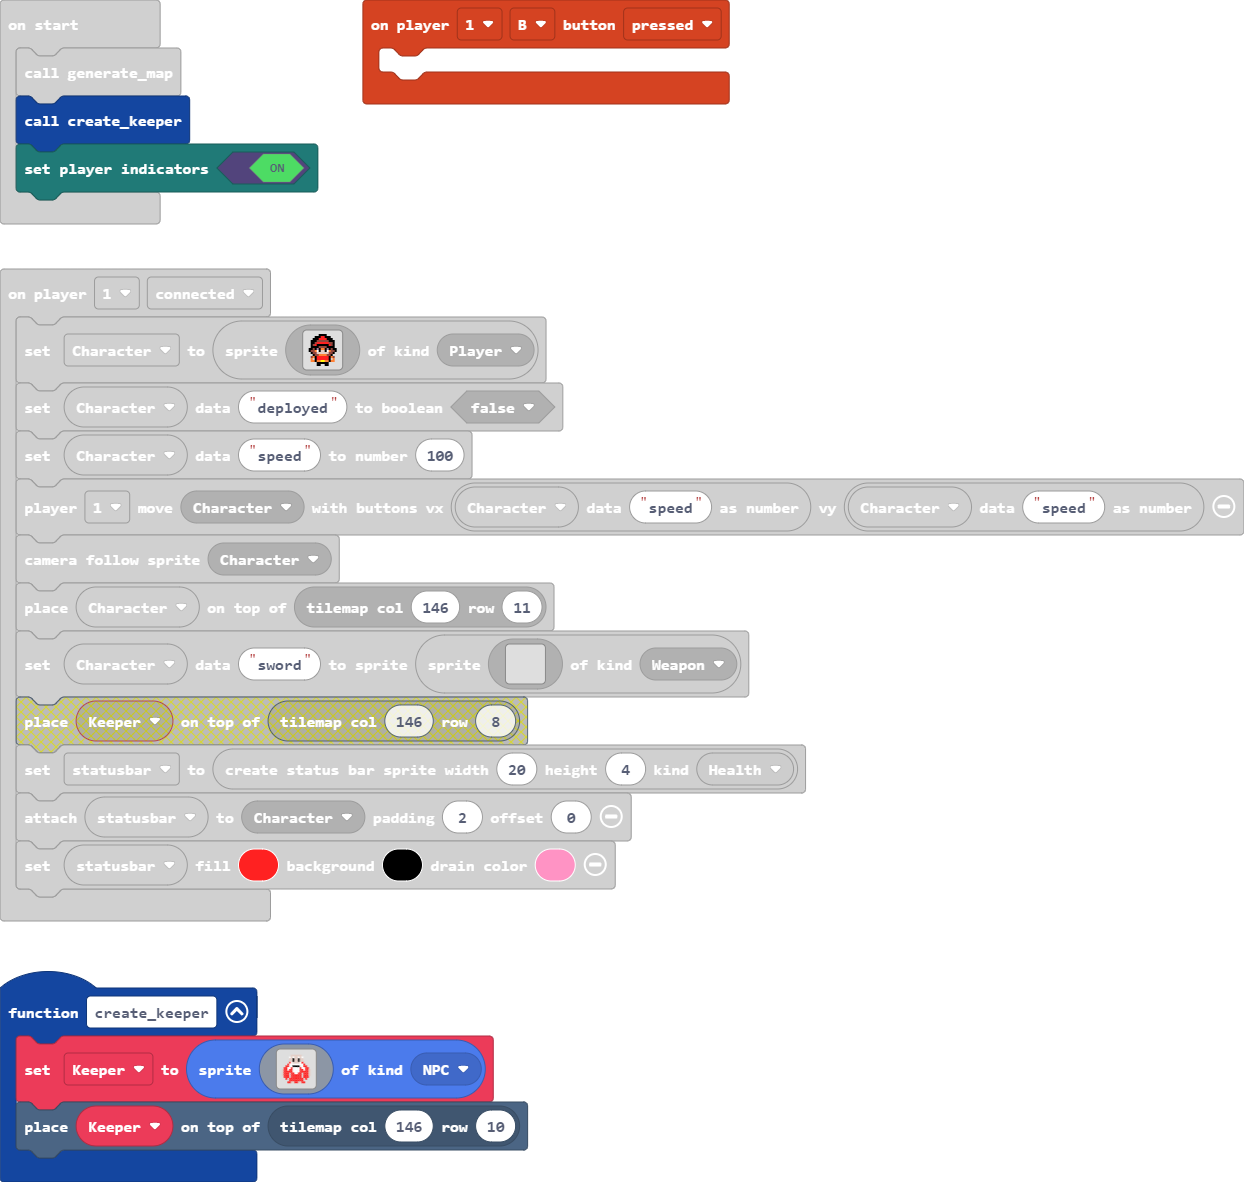
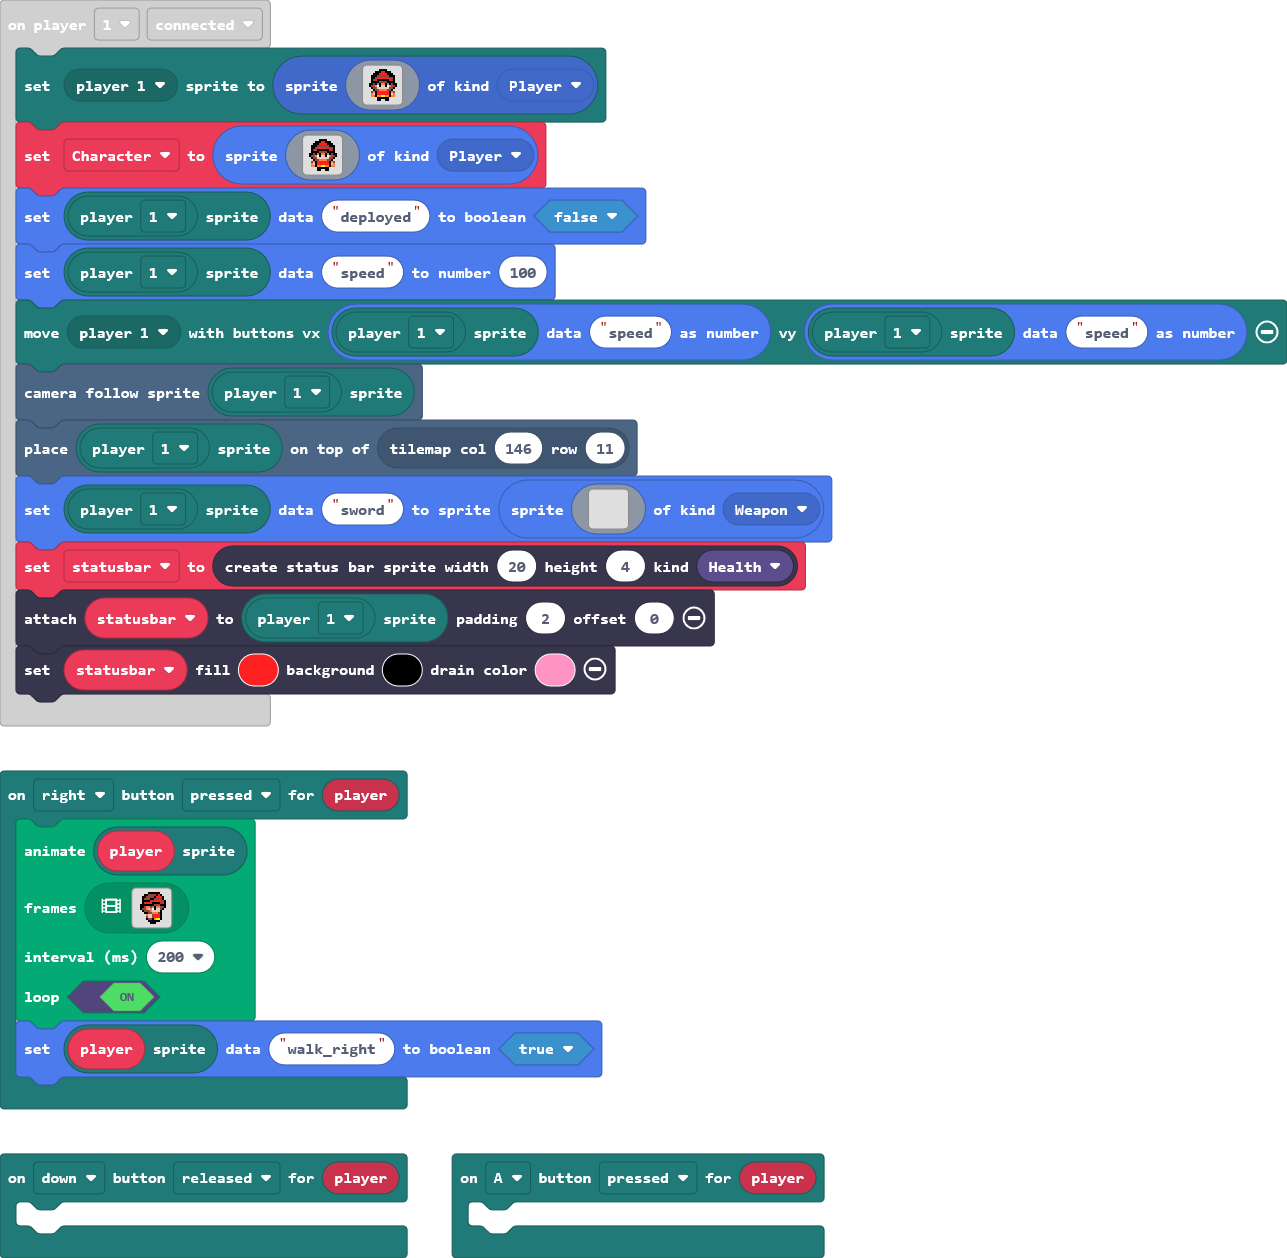
Update main.blocks, main.ts

diff --git a/main.ts b/main.ts
@@ -22,6 +22,83 @@ controller.player1.onButtonEvent(ControllerButton.Left, ControllerButtonEvent.Re
     sprites.setDataBoolean(Character, "walk_left", false)
     check_direction(sprites.readDataBoolean(Character, "walk_up"), sprites.readDataBoolean(Character, "walk_down"), sprites.readDataBoolean(Character, "walk_left"), sprites.readDataBoolean(Character, "walk_right"), Character)
 })
+mp.onButtonEvent(mp.MultiplayerButton.Right, ControllerButtonEvent.Pressed, function (player2) {
+    animation.runImageAnimation(
+    mp.getPlayerSprite(player2),
+    [img`
+        . . . . . . f f f f f f . . . . 
+        . . . . f f e e e e f 2 f . . . 
+        . . . f f e e e e f 2 2 2 f . . 
+        . . . f e e e f f e e e e f . . 
+        . . . f f f f e e 2 2 2 2 e f . 
+        . . . f e 2 2 2 f f f f e 2 f . 
+        . . f f f f f f f e e e f f f . 
+        . . f f e 4 4 e b f 4 4 e e f . 
+        . . f e e 4 d 4 1 f d d e f . . 
+        . . . f e e e 4 d d d d f . . . 
+        . . . . f f e e 4 4 4 e f . . . 
+        . . . . . 4 d d e 2 2 2 f . . . 
+        . . . . . e d d e 2 2 2 f . . . 
+        . . . . . f e e f 4 5 5 f . . . 
+        . . . . . . f f f f f f . . . . 
+        . . . . . . . f f f . . . . . . 
+        `,img`
+        . . . . . . . . . . . . . . . . 
+        . . . . . . f f f f f f . . . . 
+        . . . . f f e e e e f 2 f . . . 
+        . . . f f e e e e f 2 2 2 f . . 
+        . . . f e e e f f e e e e f . . 
+        . . . f f f f e e 2 2 2 2 e f . 
+        . . . f e 2 2 2 f f f f e 2 f . 
+        . . f f f f f f f e e e f f f . 
+        . . f f e 4 4 e b f 4 4 e e f . 
+        . . f e e 4 d 4 1 f d d e f . . 
+        . . . f e e e e e d d d f . . . 
+        . . . . . f 4 d d e 4 e f . . . 
+        . . . . . f e d d e 2 2 f . . . 
+        . . . . f f f e e f 5 5 f f . . 
+        . . . . f f f f f f f f f f . . 
+        . . . . . f f . . . f f f . . . 
+        `,img`
+        . . . . . . f f f f f f . . . . 
+        . . . . f f e e e e f 2 f . . . 
+        . . . f f e e e e f 2 2 2 f . . 
+        . . . f e e e f f e e e e f . . 
+        . . . f f f f e e 2 2 2 2 e f . 
+        . . . f e 2 2 2 f f f f e 2 f . 
+        . . f f f f f f f e e e f f f . 
+        . . f f e 4 4 e b f 4 4 e e f . 
+        . . f e e 4 d 4 1 f d d e f . . 
+        . . . f e e e 4 d d d d f . . . 
+        . . . . f f e e 4 4 4 e f . . . 
+        . . . . . 4 d d e 2 2 2 f . . . 
+        . . . . . e d d e 2 2 2 f . . . 
+        . . . . . f e e f 4 5 5 f . . . 
+        . . . . . . f f f f f f . . . . 
+        . . . . . . . f f f . . . . . . 
+        `,img`
+        . . . . . . . . . . . . . . . . 
+        . . . . . . f f f f f f . . . . 
+        . . . . f f e e e e f 2 f . . . 
+        . . . f f e e e e f 2 2 2 f . . 
+        . . . f e e e f f e e e e f . . 
+        . . . f f f f e e 2 2 2 2 e f . 
+        . . . f e 2 2 2 f f f f e 2 f . 
+        . . f f f f f f f e e e f f f . 
+        . . f f e 4 4 e b f 4 4 e e f . 
+        . . f e e 4 d 4 1 f d d e f . . 
+        . . . f e e e 4 d d d d f . . . 
+        . . . . 4 d d e 4 4 4 e f . . . 
+        . . . . e d d e 2 2 2 2 f . . . 
+        . . . . f e e f 4 4 5 5 f f . . 
+        . . . . f f f f f f f f f f . . 
+        . . . . . f f . . . f f f . . . 
+        `],
+    200,
+    true
+    )
+    sprites.setDataBoolean(mp.getPlayerSprite(player2), "walk_right", true)
+})
 function create_keeper () {
     Keeper = sprites.create(assets.image`The Keeper`, SpriteKind.NPC)
     tiles.placeOnTile(Keeper, tiles.getTileLocation(146, 10))
@@ -107,6 +184,9 @@ controller.player1.onButtonEvent(ControllerButton.Up, ControllerButtonEvent.Rele
     animation.stopAnimation(animation.AnimationTypes.All, Character)
     sprites.setDataBoolean(Character, "walk_up", false)
     check_direction(sprites.readDataBoolean(Character, "walk_up"), sprites.readDataBoolean(Character, "walk_down"), sprites.readDataBoolean(Character, "walk_left"), sprites.readDataBoolean(Character, "walk_right"), Character)
+})
+mp.onButtonEvent(mp.MultiplayerButton.A, ControllerButtonEvent.Pressed, function (player2) {
+	
 })
 function check_direction (up: boolean, down: boolean, left: boolean, right: boolean, user: Sprite) {
     if (up && left || up && right || up && (left && right)) {
@@ -569,81 +649,7 @@ controller.player1.onButtonEvent(ControllerButton.Down, ControllerButtonEvent.Re
     check_direction(sprites.readDataBoolean(Character, "walk_up"), sprites.readDataBoolean(Character, "walk_down"), sprites.readDataBoolean(Character, "walk_left"), sprites.readDataBoolean(Character, "walk_right"), Character)
 })
 controller.player1.onButtonEvent(ControllerButton.Right, ControllerButtonEvent.Pressed, function () {
-    animation.runImageAnimation(
-    Character,
-    [img`
-        . . . . . . f f f f f f . . . . 
-        . . . . f f e e e e f 2 f . . . 
-        . . . f f e e e e f 2 2 2 f . . 
-        . . . f e e e f f e e e e f . . 
-        . . . f f f f e e 2 2 2 2 e f . 
-        . . . f e 2 2 2 f f f f e 2 f . 
-        . . f f f f f f f e e e f f f . 
-        . . f f e 4 4 e b f 4 4 e e f . 
-        . . f e e 4 d 4 1 f d d e f . . 
-        . . . f e e e 4 d d d d f . . . 
-        . . . . f f e e 4 4 4 e f . . . 
-        . . . . . 4 d d e 2 2 2 f . . . 
-        . . . . . e d d e 2 2 2 f . . . 
-        . . . . . f e e f 4 5 5 f . . . 
-        . . . . . . f f f f f f . . . . 
-        . . . . . . . f f f . . . . . . 
-        `,img`
-        . . . . . . . . . . . . . . . . 
-        . . . . . . f f f f f f . . . . 
-        . . . . f f e e e e f 2 f . . . 
-        . . . f f e e e e f 2 2 2 f . . 
-        . . . f e e e f f e e e e f . . 
-        . . . f f f f e e 2 2 2 2 e f . 
-        . . . f e 2 2 2 f f f f e 2 f . 
-        . . f f f f f f f e e e f f f . 
-        . . f f e 4 4 e b f 4 4 e e f . 
-        . . f e e 4 d 4 1 f d d e f . . 
-        . . . f e e e e e d d d f . . . 
-        . . . . . f 4 d d e 4 e f . . . 
-        . . . . . f e d d e 2 2 f . . . 
-        . . . . f f f e e f 5 5 f f . . 
-        . . . . f f f f f f f f f f . . 
-        . . . . . f f . . . f f f . . . 
-        `,img`
-        . . . . . . f f f f f f . . . . 
-        . . . . f f e e e e f 2 f . . . 
-        . . . f f e e e e f 2 2 2 f . . 
-        . . . f e e e f f e e e e f . . 
-        . . . f f f f e e 2 2 2 2 e f . 
-        . . . f e 2 2 2 f f f f e 2 f . 
-        . . f f f f f f f e e e f f f . 
-        . . f f e 4 4 e b f 4 4 e e f . 
-        . . f e e 4 d 4 1 f d d e f . . 
-        . . . f e e e 4 d d d d f . . . 
-        . . . . f f e e 4 4 4 e f . . . 
-        . . . . . 4 d d e 2 2 2 f . . . 
-        . . . . . e d d e 2 2 2 f . . . 
-        . . . . . f e e f 4 5 5 f . . . 
-        . . . . . . f f f f f f . . . . 
-        . . . . . . . f f f . . . . . . 
-        `,img`
-        . . . . . . . . . . . . . . . . 
-        . . . . . . f f f f f f . . . . 
-        . . . . f f e e e e f 2 f . . . 
-        . . . f f e e e e f 2 2 2 f . . 
-        . . . f e e e f f e e e e f . . 
-        . . . f f f f e e 2 2 2 2 e f . 
-        . . . f e 2 2 2 f f f f e 2 f . 
-        . . f f f f f f f e e e f f f . 
-        . . f f e 4 4 e b f 4 4 e e f . 
-        . . f e e 4 d 4 1 f d d e f . . 
-        . . . f e e e 4 d d d d f . . . 
-        . . . . 4 d d e 4 4 4 e f . . . 
-        . . . . e d d e 2 2 2 2 f . . . 
-        . . . . f e e f 4 4 5 5 f f . . 
-        . . . . f f f f f f f f f f . . 
-        . . . . . f f . . . f f f . . . 
-        `],
-    200,
-    true
-    )
-    sprites.setDataBoolean(Character, "walk_right", true)
+	
 })
 controller.player1.onButtonEvent(ControllerButton.A, ControllerButtonEvent.Pressed, function () {
     if (!(sprites.readDataBoolean(Character, "attacking"))) {
@@ -673,6 +679,9 @@ controller.player1.onButtonEvent(ControllerButton.A, ControllerButtonEvent.Press
 scene.onHitTile(SpriteKind.Player, 15, function (sprite) {
     scene.placeOnRandomTile(sprite, 12)
     sprites.setDataBoolean(sprite, "deployed", true)
+})
+mp.onButtonEvent(mp.MultiplayerButton.Down, ControllerButtonEvent.Released, function (player2) {
+	
 })
 controller.player2.onEvent(ControllerEvent.Connected, function () {
     Character2 = sprites.create(img`
@@ -729,6 +738,24 @@ controller.player1.onButtonEvent(ControllerButton.Right, ControllerButtonEvent.R
     check_direction(sprites.readDataBoolean(Character, "walk_up"), sprites.readDataBoolean(Character, "walk_down"), sprites.readDataBoolean(Character, "walk_left"), sprites.readDataBoolean(Character, "walk_right"), Character)
 })
 controller.player1.onEvent(ControllerEvent.Connected, function () {
+    mp.setPlayerSprite(mp.playerSelector(mp.PlayerNumber.One), sprites.create(img`
+        . . . . . . f f f f . . . . . . 
+        . . . . f f f 2 2 f f f . . . . 
+        . . . f f f 2 2 2 2 f f f . . . 
+        . . f f f e e e e e e f f f . . 
+        . . f f e 2 2 2 2 2 2 e e f . . 
+        . . f e 2 f f f f f f 2 e f . . 
+        . . f f f f e e e e f f f f . . 
+        . f f e f b f 4 4 f b f e f f . 
+        . f e e 4 1 f d d f 1 4 e e f . 
+        . . f e e d d d d d d e e f . . 
+        . . . f e e 4 4 4 4 e e f . . . 
+        . . e 4 f 2 2 2 2 2 2 f 4 e . . 
+        . . 4 d f 2 2 2 2 2 2 f d 4 . . 
+        . . 4 4 f 4 4 5 5 4 4 f 4 4 . . 
+        . . . . . f f f f f f . . . . . 
+        . . . . . f f . . f f . . . . . 
+        `, SpriteKind.Player))
     Character = sprites.create(img`
         . . . . . . f f f f . . . . . . 
         . . . . f f f 2 2 f f f . . . . 
@@ -747,12 +774,12 @@ controller.player1.onEvent(ControllerEvent.Connected, function () {
         . . . . . f f f f f f . . . . . 
         . . . . . f f . . f f . . . . . 
         `, SpriteKind.Player)
-    sprites.setDataBoolean(Character, "deployed", false)
-    sprites.setDataNumber(Character, "speed", 100)
-    controller.player1.moveSprite(Character, sprites.readDataNumber(Character, "speed"), sprites.readDataNumber(Character, "speed"))
-    scene.cameraFollowSprite(Character)
-    tiles.placeOnTile(Character, tiles.getTileLocation(146, 11))
-    sprites.setDataSprite(Character, "sword", sprites.create(img`
+    sprites.setDataBoolean(mp.getPlayerSprite(mp.playerSelector(mp.PlayerNumber.One)), "deployed", false)
+    sprites.setDataNumber(mp.getPlayerSprite(mp.playerSelector(mp.PlayerNumber.One)), "speed", 100)
+    mp.moveWithButtons(mp.playerSelector(mp.PlayerNumber.One), sprites.readDataNumber(mp.getPlayerSprite(mp.playerSelector(mp.PlayerNumber.One)), "speed"), sprites.readDataNumber(mp.getPlayerSprite(mp.playerSelector(mp.PlayerNumber.One)), "speed"))
+    scene.cameraFollowSprite(mp.getPlayerSprite(mp.playerSelector(mp.PlayerNumber.One)))
+    tiles.placeOnTile(mp.getPlayerSprite(mp.playerSelector(mp.PlayerNumber.One)), tiles.getTileLocation(146, 11))
+    sprites.setDataSprite(mp.getPlayerSprite(mp.playerSelector(mp.PlayerNumber.One)), "sword", sprites.create(img`
         . . . . . . . . . . . . . . . . 
         . . . . . . . . . . . . . . . . 
         . . . . . . . . . . . . . . . . 
@@ -771,7 +798,7 @@ controller.player1.onEvent(ControllerEvent.Connected, function () {
         . . . . . . . . . . . . . . . . 
         `, SpriteKind.Weapon))
     statusbar = statusbars.create(20, 4, StatusBarKind.Health)
-    statusbar.attachToSprite(Character, 2, 0)
+    statusbar.attachToSprite(mp.getPlayerSprite(mp.playerSelector(mp.PlayerNumber.One)), 2, 0)
     statusbar.setColor(2, 15, 3)
 })
 function generate_map () {
